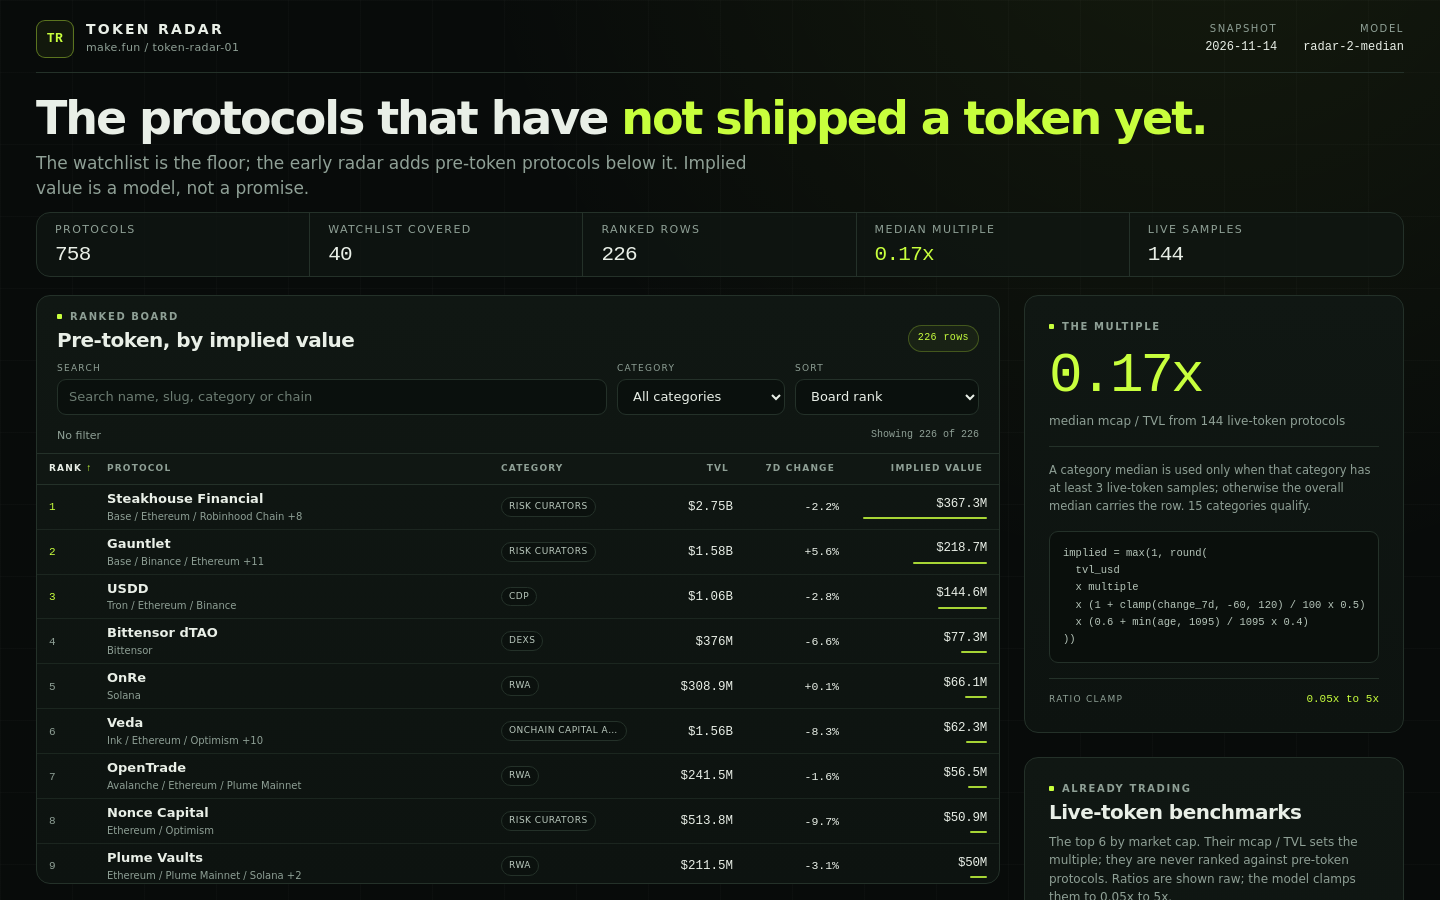
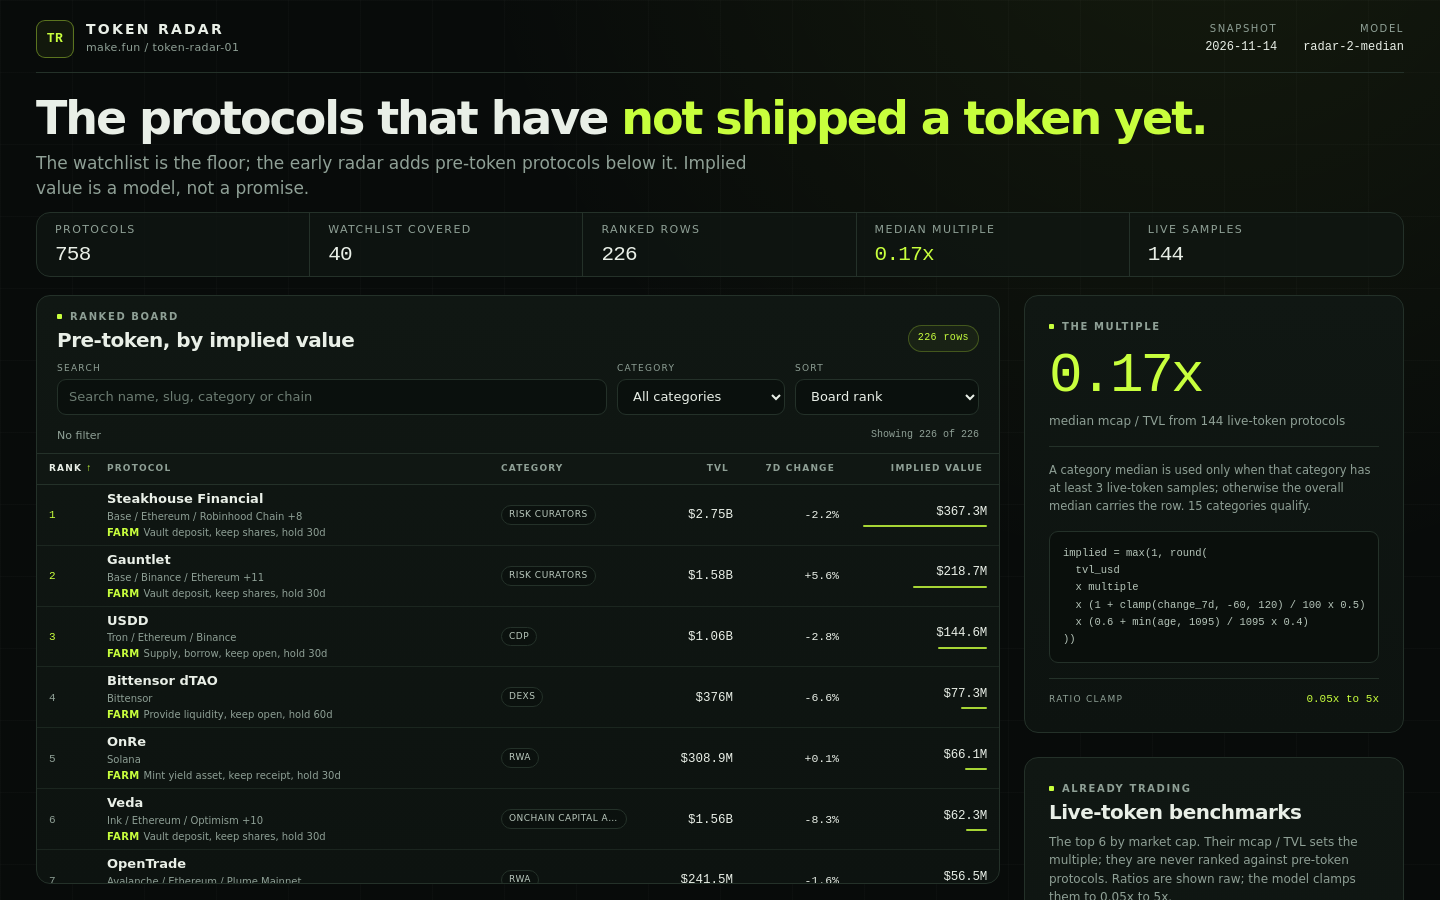
Show a farm hint on every board row

diff --git a/lib/model.ts b/lib/model.ts
@@ -138,6 +138,7 @@ export interface BoardRow {
   implied_value_usd: number;
   farm: FarmStep[];
   farm_steps: string[];
+  farm_hint: string;
 }
 
 /** The dashboard's view of one row: the same factors plus the farm plan as objects. */
@@ -166,6 +167,7 @@ export interface RadarRow {
   implied_value_usd: number;
   farm: FarmStep[];
   farm_steps: string[];
+  farm_hint: string;
 }
 
 /** A live-token protocol: the market's own multiple, never ranked against pre-token protocols. */
@@ -410,6 +412,7 @@ export function buildBoard(snapshot: Snapshot, model: ModelConstants = MODEL): B
       implied_value_usd: result.implied,
       farm,
       farm_steps: farm.map(stepText),
+      farm_hint: farmHint(protocol, result.age),
     };
   });
 }
@@ -499,6 +502,26 @@ function actionFor(p: SnapshotProtocol, capital: number, chain: string): string 
   }
   if (c.includes('launchpad')) return `Commit ${amount} of USDC to one launch on ${name} and keep the allocation receipt.`;
   return `Deposit ${amount} of USDC into ${name} on ${chain}, use one core action, and keep the position open.`;
+}
+
+/** The same category action, compressed to one board line: what to do and how long to hold it. */
+function farmHint(p: SnapshotProtocol, age: number | null): string {
+  const c = (p.category ?? '').toLowerCase();
+  const hold = holdDaysFor(age);
+  let label: string;
+  if (c.includes('prediction')) label = 'Fund USDC, one position';
+  else if (c.includes('insurance')) label = 'Buy cover, keep receipt';
+  else if (c.includes('rwa')) label = 'Mint yield asset, keep receipt';
+  else if (c.includes('bridge') || c.includes('cross chain')) label = 'Bridge USDC, use once';
+  else if (c.includes('stable')) label = 'Mint stable, keep open';
+  else if (c.includes('lend') || c.includes('cdp') || c.includes('collateral') || c.includes('credit')) label = 'Supply, borrow, keep open';
+  else if (c.includes('staking') || c.includes('restak')) label = 'Stake, keep receipt';
+  else if (c.includes('derivative') || c.includes('perpetual') || c.includes('option') || c.includes('synthetic') || c.includes('basis')) label = 'Margin, one hedged position';
+  else if (c.includes('curator') || c.includes('allocator') || c.includes('liquidity manager')) label = 'Vault deposit, keep shares';
+  else if (c.includes('dex') || c.includes('farm') || c.includes('yield') || c.includes('leverage')) label = 'Provide liquidity, keep open';
+  else if (c.includes('launchpad')) label = 'Commit USDC, keep allocation';
+  else label = 'Deposit USDC, one action';
+  return `${label}, hold ${hold}d`;
 }
 
 /**
@@ -591,6 +614,7 @@ export function radarRow(row: BoardRow): RadarRow {
     implied_value_usd: row.implied_value_usd,
     farm: row.farm,
     farm_steps: row.farm_steps,
+    farm_hint: row.farm_hint,
   };
 }
 

diff --git a/dashboard/app.js b/dashboard/app.js
@@ -491,7 +491,8 @@
     const protocol = el('td', 'col-protocol');
     const nameLine = el('div', 'protocol-name', row.name);
     const chainLine = el('div', 'protocol-chains', chainText(row.chains));
-    add(protocol, nameLine, chainLine);
+    const farmLine = el('div', 'protocol-farm', row.farm_hint);
+    add(protocol, nameLine, chainLine, farmLine);
 
     const category = el('td', 'col-category');
     add(category, el('span', 'chip', categoryText(row)));

diff --git a/dashboard/app.css b/dashboard/app.css
@@ -544,6 +544,23 @@ th[aria-sort="descending"] .sort-button {
   white-space: nowrap;
 }
 
+.protocol-farm {
+  overflow: hidden;
+  margin-top: 3px;
+  color: var(--muted);
+  font-size: 10px;
+  line-height: 1.3;
+  text-overflow: ellipsis;
+  white-space: nowrap;
+}
+
+.protocol-farm::before {
+  content: "FARM ";
+  color: var(--accent);
+  font-weight: 700;
+  letter-spacing: 0.04em;
+}
+
 .chip {
   display: inline-block;
   max-width: 100%;
